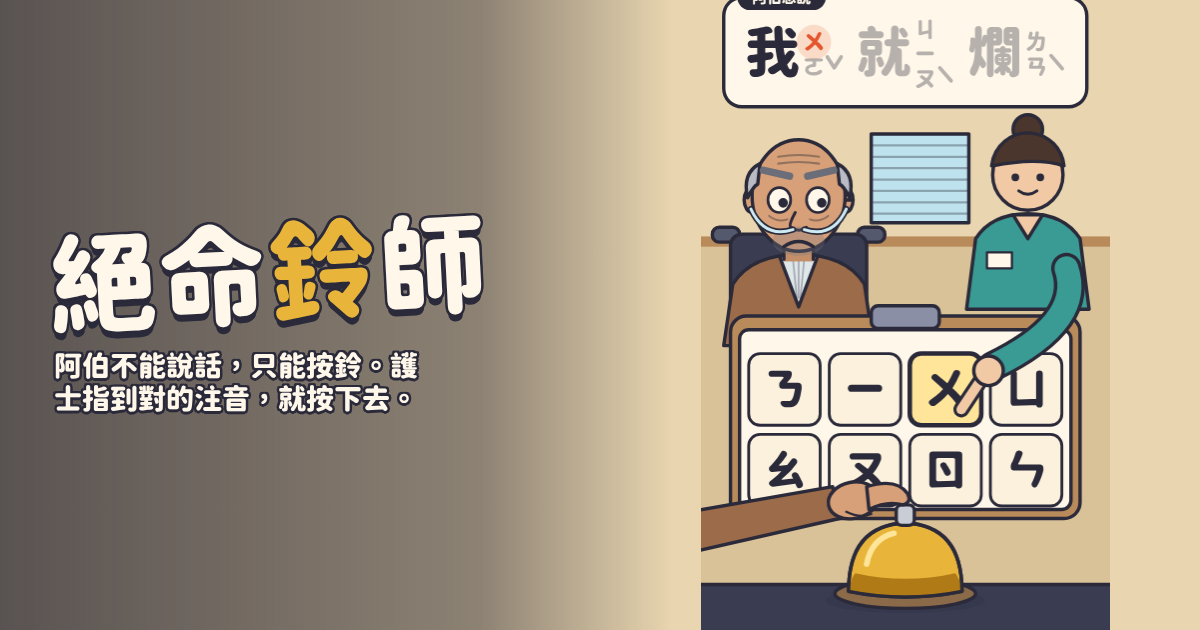
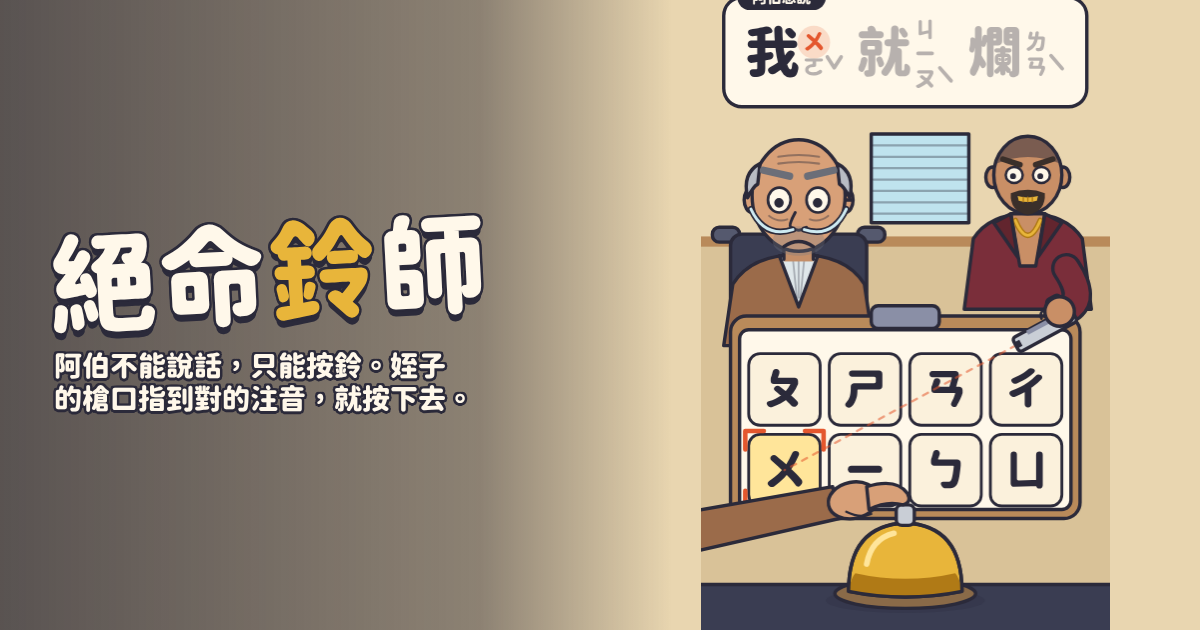
絕命鈴師：護士換成拿槍的姪子
- 右邊的角色改成姪子（平頭、山羊鬍、金牙、金鍊子），用槍指注音板
- 槍停在板子角落瞄準，目標格用紅色準星框住，不再有手臂橫過板子擋到注音
- 文字、提示、結束畫面、說明、預覽圖跟著改

Claude-Session: https://claude.ai/code/session_01KxDmhWxjQ4a2uP9nZWftUY

diff --git a/index.html b/index.html
@@ -84,10 +84,10 @@ h1 span{color:var(--sun)}
       </li>
       <li>
         <a class="game" href="lingshi/">
-          <img src="lingshi/og.png" width="1200" height="630" alt="坐輪椅、瞪大眼睛的阿伯按著桌上的銅鈴，護士拿著注音板用手指一格一格地指">
+          <img src="lingshi/og.png" width="1200" height="630" alt="坐輪椅、瞪大眼睛的阿伯按著桌上的銅鈴，拿槍的姪子用槍口在注音板上一格一格地指">
           <div class="info">
             <h2>絕命鈴師</h2>
-            <p>阿伯不能說話，只能按鈴。護士的手指在注音板上移動，指到對的注音就按下去，把他想說的話拼出來。</p>
+            <p>阿伯不能說話，只能按鈴。姪子拿槍在注音板上一格一格指，槍口指到對的注音就按下去，把他想罵的話拼出來。</p>
             <span class="go">開始玩</span>
           </div>
         </a>

diff --git a/lingshi/README.md b/lingshi/README.md
@@ -1,6 +1,6 @@
 # 絕命鈴師
 
-阿伯不能說話，只能按鈴。護士拿著注音板，手指一格一格地指；指到對的注音就按鈴，把阿伯想說的話一個字一個字拼出來。阿伯脾氣很差，想說的大多是罵人的話。
+阿伯不能說話，只能按鈴。姪子拿著槍，用槍口在注音板上一格一格地指；指到對的注音就按鈴，把阿伯想說的話一個字一個字拼出來。阿伯脾氣很差，想說的大多是罵人的話。
 
 向《絕命毒師》裡那位坐輪椅、靠按鈴溝通的阿伯致敬的同人小遊戲，非官方、與原作及其製作公司無關。畫面全部是自己畫的卡通造型，角色都不具名。
 
@@ -8,17 +8,17 @@
 
 - **按鈴**：整個畫面點哪裡都是按鈴；電腦按空白鍵或 Enter。
 - 上面的卡片是阿伯想說的話，每個字右邊直排注音。**紅色**的那個注音是現在要拼的。
-- 護士的手指在注音板上一格一格移動，指到那個注音時按鈴。聲調（ˊ ˇ ˋ ˙）也要拼，一聲不用。
-- 按對：換下一個注音，整句拼完護士會唸出來。
-- 按錯：護士會把那個注音猜成別的字（「貓？阿伯要貓？」），耐心扣一大截。
-- 沒按到：手指會再繞回來，只是多花時間。
-- 小提示：手指指到對的注音時，阿伯的眉毛會挑起來。
+- 姪子的槍口在注音板上一格一格移動，指到那個注音時按鈴。聲調（ˊ ˇ ˋ ˙）也要拼，一聲不用。
+- 按對：換下一個注音，整句拼完姪子會唸出來。
+- 按錯：姪子會把那個注音聽成別的字（「貓？阿伯你要貓？！」），耐心扣一大截。
+- 沒按到：槍口會再繞回來，只是多花時間。
+- 小提示：槍口指到對的注音時，阿伯的眉毛會挑起來。
 
-左上角是「護士的耐心」：會一直慢慢掉，按對會補、整句拼完補更多、按錯扣很多，掉光就結束。分數是拼出了幾句話。
+左上角是「姪子的耐心」：會一直慢慢掉，按對會補、整句拼完補更多、按錯扣很多，掉光就結束。分數是拼出了幾句話。
 
 ## 仇人來訪
 
-每拼完 4 句，戴眼鏡、西裝筆挺的仇人會坐到對面。5 秒內狂按鈴把怒氣條灌滿，就能把他氣走，護士的耐心補滿；沒灌滿也不會扣分。
+每拼完 4 句，戴眼鏡、西裝筆挺的仇人會坐到對面。5 秒內狂按鈴把怒氣條灌滿，就能把他氣走，姪子的耐心補滿；沒灌滿也不會扣分。
 
 ## 難度
 
@@ -29,9 +29,9 @@
 | 6–10 | 三個字（他媽的、王八蛋、看著我…） | 8 |
 | 11 以後 | 三到五個字（關你屁事、血債血還、誰動我的鈴…） | 10 |
 
-- 手指每格停留的時間從 0.54 秒開始，每拼完一句短 0.027 秒，最短 0.19 秒；耐心也掉得越來越快。
+- 槍口每格停留的時間從 0.54 秒開始，每拼完一句短 0.027 秒，最短 0.19 秒；耐心也掉得越來越快。
 - 干擾的注音優先挑長得像的（ㄅㄉ、ㄢㄣ、ㄓㄗ…）。
-- 第 5 句起手指有時會倒著走，第 9 句起有時會亂跳，第 11 句起護士偶爾會在某一格多停一下。
+- 第 5 句起槍口有時會倒著走，第 9 句起有時會亂跳，第 11 句起姪子偶爾會在某一格多停一下。
 
 難度目前只用模擬玩家調過，還沒有真人試玩的數據。
 
